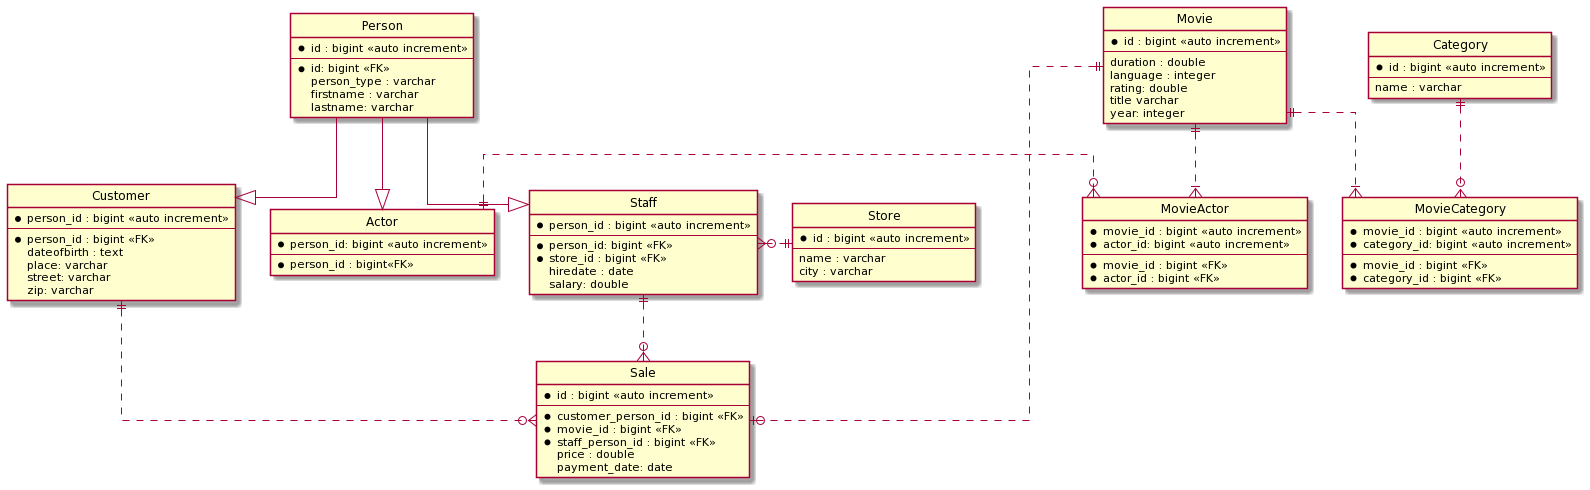
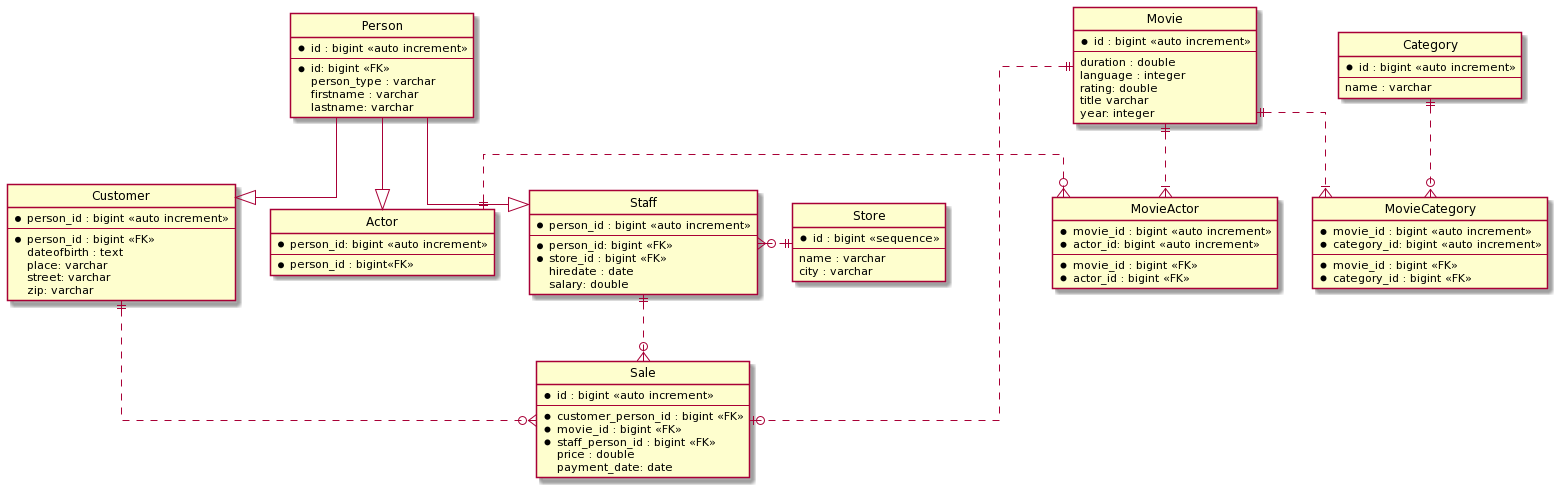
change generationtype to sequence

diff --git a/src/main/java/at/htl/workloads/store/Store.java b/src/main/java/at/htl/workloads/store/Store.java
@@ -6,10 +6,11 @@ import javax.persistence.*;
 import java.util.List;
 
 @Entity
+@SequenceGenerator(name = "seq", initialValue = 1000)
 public class Store {
 
     @Id
-    @GeneratedValue(strategy = GenerationType.IDENTITY)
+    @GeneratedValue(strategy = GenerationType.SEQUENCE, generator = "seq")
     private Long id;
 
     private String name;
